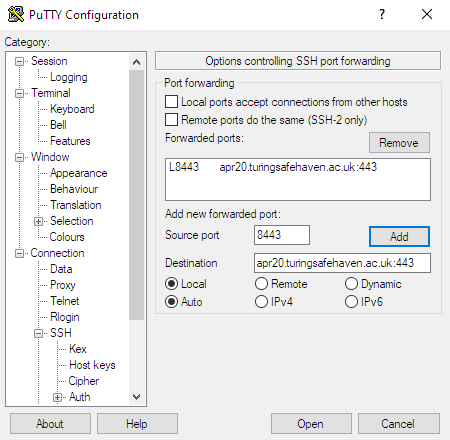
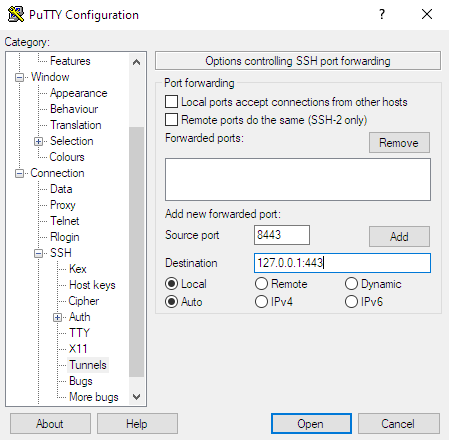
Fixed Windows connection issue

diff --git a/docs/safe_haven_user_guide_tier1.md b/docs/safe_haven_user_guide_tier1.md
@@ -227,8 +227,7 @@ To connect over SSH with `PuTTY`, follow these steps:
 3. Setup SSH forwarding
    - Expand `Connection` and `SSH` on the left-hand sidebar and select `Tunnels`
    - In the `Source port` box put `8443`
-   - In the `Destination` box put `<SRE URL>:443` (note the `:`)
-   - :information_source: Our example user Ada Lovelace will use `apr20.turingsafehaven.ac.uk:443` here
+   - In the `Destination` box put `127.0.0.1:443` (note the `:`)
    <p align="center">
       <img src="images/user_guide/tier1_putty_setup_03.png" width="80%" title="tier1_putty_setup_03">
    </p>
